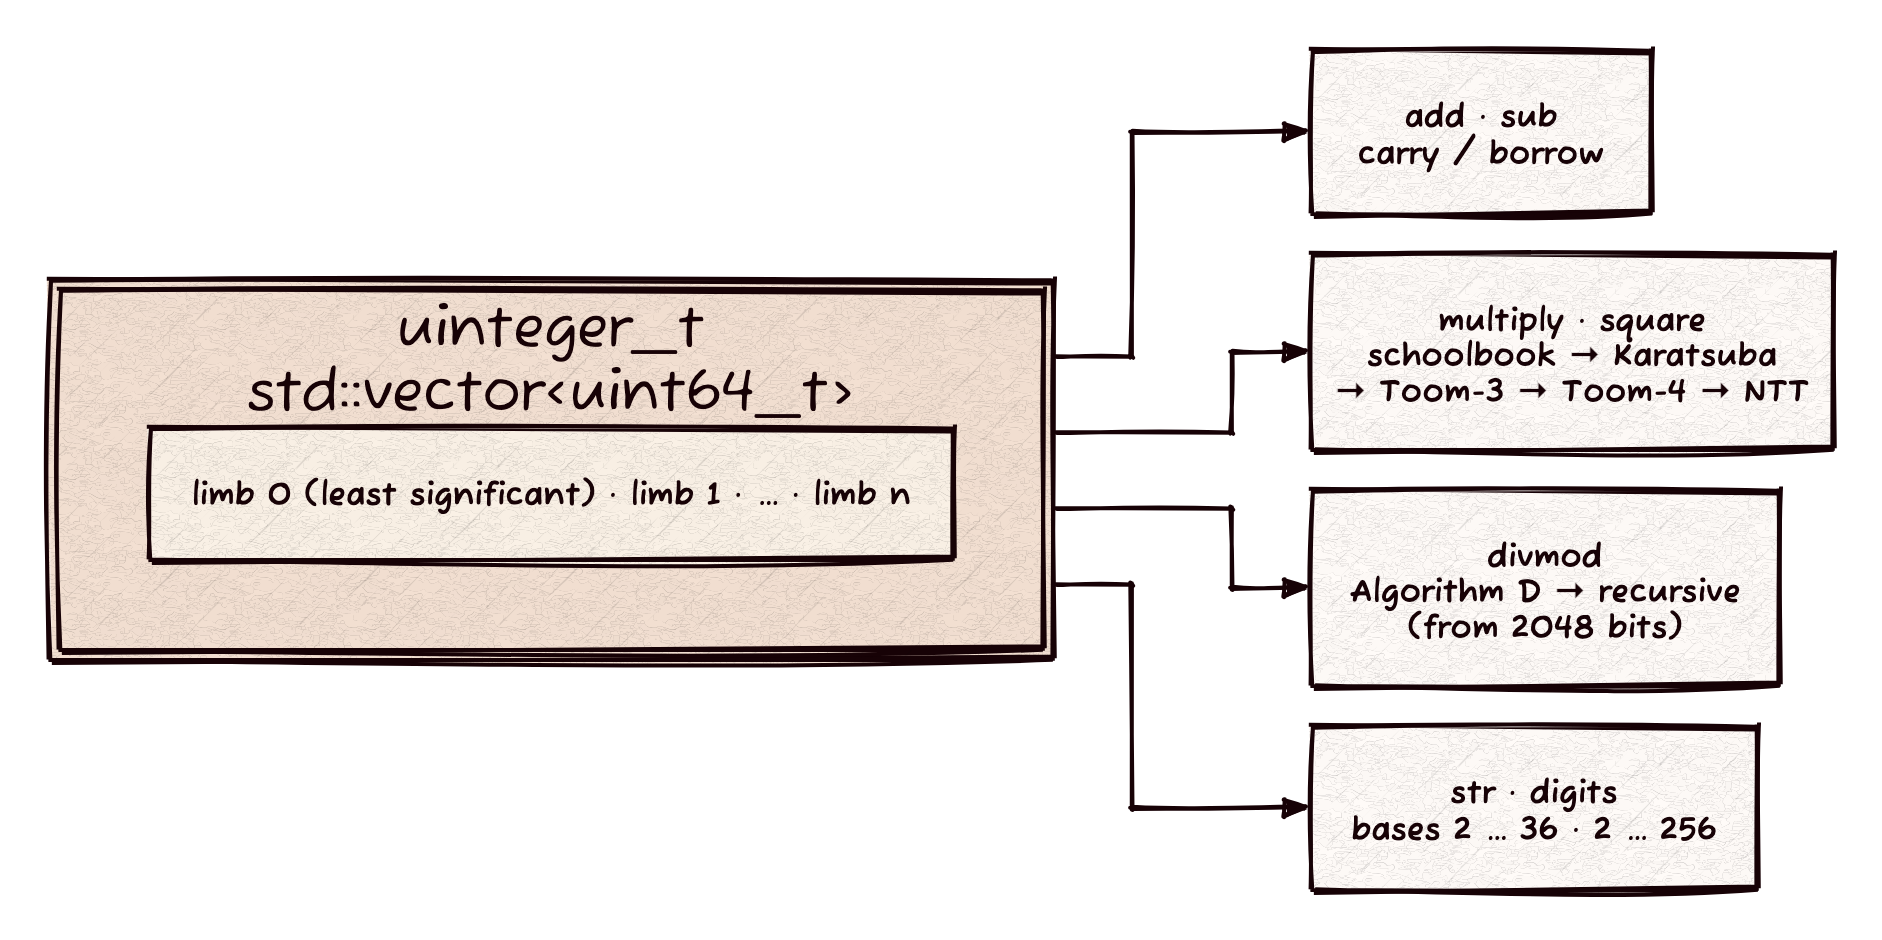
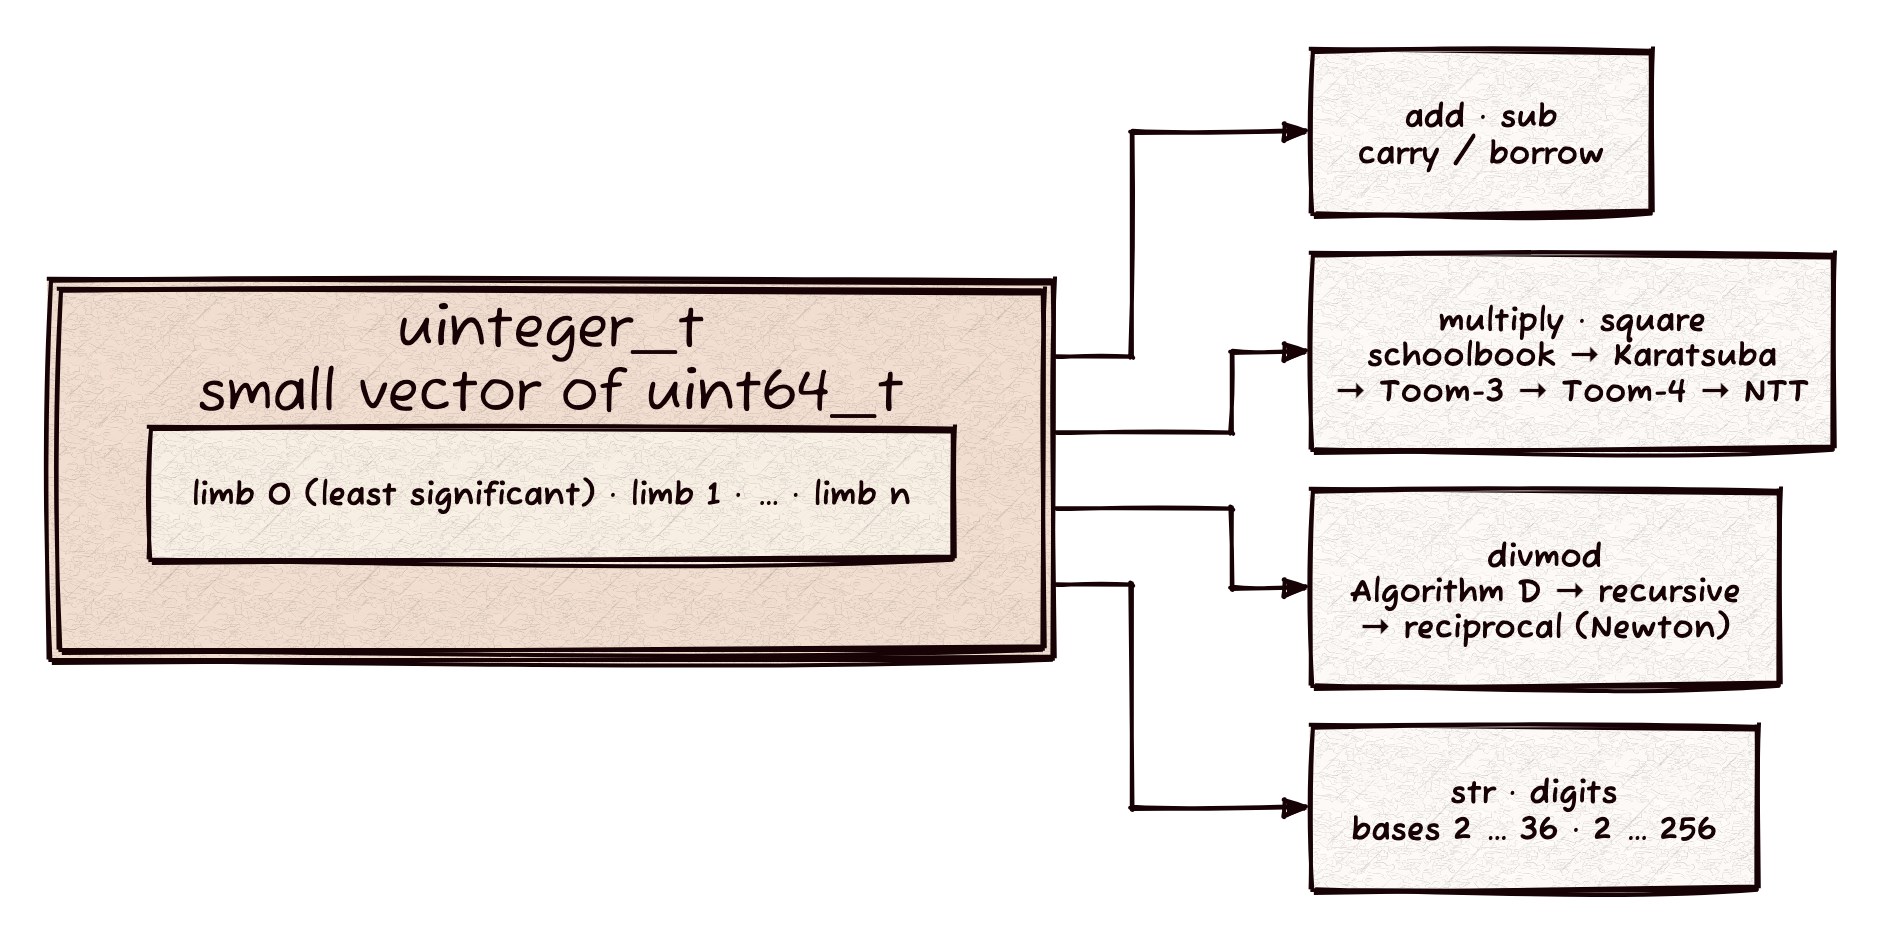
Document Newton division: ARCHITECTURE, AGENTS, README and the diagram (K5)

Changed region(s): [[0.0925, 0.4011, 0.4931, 0.4628], [0.7396, 0.6479, 0.9245, 0.6787]]

diff --git a/test/fuzz_gmp.cc b/test/fuzz_gmp.cc
@@ -175,12 +175,12 @@ static int large_div_rounds(int rounds) {
 	for (int r = 0; r < rounds; ++r) {
 		std::size_t dn, m;
 		switch (r % 8) {
-			case 0: dn = 1300 + g() % 2000; m = 5000 + g() % 3000; break;
+			case 0: dn = 1400 + g() % 2000; m = 5000 + g() % 3000; break;
 			case 1: dn = 20000 + g() % 5000; m = dn; break;
 			case 2: dn = 100000 + g() % 20000; m = dn / 2 + g() % (dn / 2); break;
 			case 3: dn = 3000 + g() % 3000; m = 600000 + g() % 300000; break;
 			case 4: dn = 500000; m = 500000; break;
-			case 5: dn = 1300 + g() % 100; m = 5000 + g() % 50; break;
+			case 5: dn = 1400 + g() % 100; m = 5000 + g() % 50; break;
 			case 6: dn = 40000 + g() % 9000; m = 2 * dn + 1 + g() % dn; break;
 			default: dn = 8000 + g() % 4000; m = 40000 + g() % 20000; break;
 		}

diff --git a/AGENTS.md b/AGENTS.md
@@ -29,6 +29,17 @@ Notes for agents and contributors working in this repo.
   raw limbs, with guard limbs around an exactly sized scratch buffer (opens up
   `private`; run by CTest). `DIV_DC_THRESHOLD` and `DIV_DC_STEP_THRESHOLD` (limbs)
   can be overridden to run the recursion on small operands.
+- `test/newton_kernel.cc` — the Newton (reciprocal) division kernels: the reciprocal against its
+  defining inequality, the division against a dividend built as Q d + R (and against schoolbook
+  division where the top limbs equal the divisor's), guard limbs around an exactly sized scratch,
+  the corrections of every block against their bounds, the dispatch predicate and the size plan
+  at 16- and 32-bit size types (opens up `private`; run by CTest at several limb widths, tiny
+  thresholds and tiny multiplication cutoffs). `UINTEGER_T_DIV_NEWTON_THRESHOLD`,
+  `UINTEGER_T_DIV_NEWTON_QUOTIENT_THRESHOLD` and `UINTEGER_T_DIV_NEWTON_INV_BASE` (limbs) run
+  it on small operands.
+- `bench/tune_div.cc` — times the recursive division against the Newton division forced to the
+  same shape over divisor sizes (`./tune_div 1 256 1024 4096` is a balanced division; the first
+  argument is quotient length over divisor length), to find the dispatch thresholds.
 - `test/radix_threads.cc` — races first uses of many bases and sizes across threads
   (the lazily built conversion tables); run by CTest, so CI's TSan job covers it.
 - `test/alloc.cc` — allocation counts of the small-value operations (replaces the
@@ -198,6 +209,11 @@ build type runs the full tests.
   transform length, up to `5.33 N + 3` at lengths `3 2^k`) and is sized by `_ntt_plan`, which
   refuses (the caller takes Toom-4) when a size would wrap. Its scratch is read as 64-bit
   words at any limb width, aligned by `ntt_align`; change the plan and the carving together.
+- Division above `div_newton_threshold` (1400 limbs) with a quotient of at least
+  `div_newton_quotient_threshold` (5000) limbs and half the divisor's takes the Newton path inside
+  `k_div_dc`; `k_div_dc_scratch_size` follows the same choice, and the scratch plan refuses sizes
+  that could wrap a 32-bit `size_t` (the recursive division is taken then). The thresholds are
+  literal limb counts from `bench/tune_div.cc` sweeps at 64-bit limbs.
 - `uinteger_t(std::uint64_t)` keeps only the low limb when `DIGIT_T` is narrower
   than 64 bits. Tests build values from bytes (`uinteger_t(bytes, 256)`).
 - The header adds trait specializations to `namespace std`

diff --git a/ARCHITECTURE.md b/ARCHITECTURE.md
@@ -283,8 +283,11 @@ dividend, the quotient and the recursion scratch in one buffer, on the stack up 
   front by `k_div_dc_scratch_size`, serves the whole recursion. The work is a
   few multiplications of the divisor's size per level, so it is O(n^1.585)
   with Karatsuba, and the products inherit any faster multiplication.
-- From `div_newton_threshold` limbs (NEWTON_T) of divisor and `div_newton_quotient_threshold`
-  limbs (NEWTON_S) of quotient, `k_div_dc` hands the division to `k_div_newton`, which divides
+- From `div_newton_threshold` (1400) limbs of divisor, `div_newton_quotient_threshold` (5000)
+  limbs of quotient, and a quotient of at least half the divisor's limbs, `k_div_dc` hands
+  the division to `k_div_newton`. The two thresholds are literal limb counts, the same at every
+  limb width; a block's two products cost the same however short the quotient, so a short
+  quotient over a tall divisor stays with the recursive division. `k_div_newton` divides
   with an approximate reciprocal of the divisor (Barrett, "Implementing the Rivest Shamir and
   Adleman public key encryption algorithm on a standard digital signal processor", 1986; Brent
   and Zimmermann, *Modern Computer Arithmetic*, 3.3 and 3.4), on the same normalized contract.
@@ -450,7 +453,9 @@ constructors is a separate byte copy.
   O(n log n) transform from 1400 limbs. Squaring
   takes about 0.6 of the time below the transform and 0.75 of it above.
 - Division, modulo: O(n*m) schoolbook (Algorithm D) below 32 limbs; recursive division
-  above, a few multiplications per level, so it follows the multiplication above.
+  above, a few multiplications per level, so it follows the multiplication; from 1400
+  limbs of divisor and 5000 of quotient, a reciprocal and a few multiplications of the
+  divisor's size per block of quotient, O(M(n)) for a balanced division.
 - `digits`, `from_digits`, `str` and parsing for power-of-two bases: O(bits); other
   bases: O(n^2) below 8192 bits, about n limb products for each of the K chunks of
   digits (K is a little above n), and O(M(n) log n) above, where M is the multiplication

diff --git a/README.md b/README.md
@@ -11,7 +11,7 @@ An arbitrary-precision unsigned integer for C++17 that reads like a built-in
 one: construct it from numbers or strings in bases 2 to 36 (or raw bytes), do the
 usual arithmetic, and print it in any of them. For exact math past 64 bits.
 
-![uinteger_t: little-endian 64-bit limbs, with schoolbook, Karatsuba, Toom-3, Toom-4 or NTT multiplication and Algorithm D or recursive division](docs/uinteger_t.png)
+![uinteger_t: little-endian 64-bit limbs, with schoolbook, Karatsuba, Toom-3, Toom-4 or NTT multiplication and Algorithm D, recursive or reciprocal division](docs/uinteger_t.png)
 
 ## ✨ Highlights
 
@@ -21,7 +21,8 @@ usual arithmetic, and print it in any of them. For exact math past 64 bits.
 - **Tuned arithmetic.** 64-bit limbs with hardware carry where available,
   Karatsuba, Toom-3, Toom-4 and number-theoretic transform multiplication with dedicated
   squaring, and division by Knuth's Algorithm D with reciprocal-based quotient
-  estimates, recursive (Burnikel-Ziegler) from 2,048-bit divisors.
+  estimates, recursive (Burnikel-Ziegler) from 2,048-bit divisors, and by an
+  approximate reciprocal (Newton iteration) for divisors of 1,400 limbs and quotients of 5,000.
 - **Any base.** Parse and render bases 2 to 36 and 256 (raw bytes); `digits()` and
   `from_digits()` convert to and from digit arrays in bases 2 to 256, which is how
   [base-x](https://github.com/Kronuz/base-x) maps its alphabets; `divmod` returns
